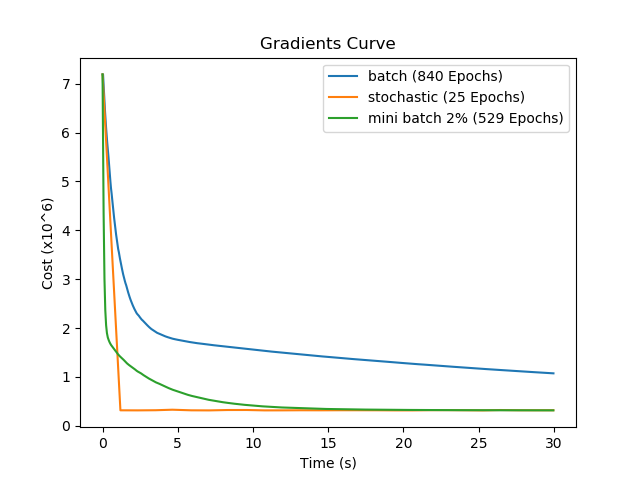
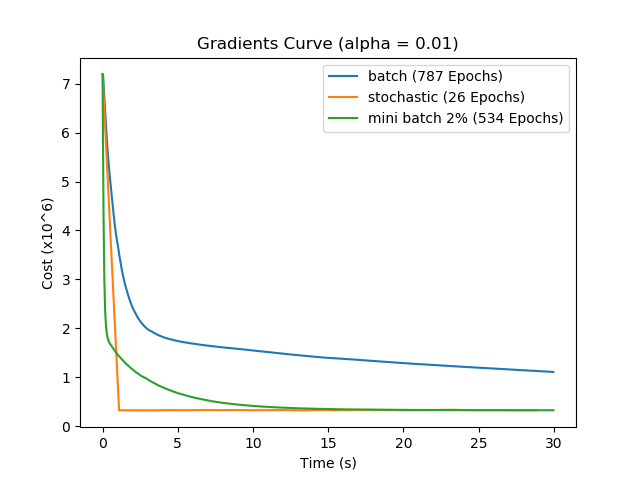
More plots

diff --git a/visualization.py b/visualization.py
@@ -159,7 +159,38 @@ def gradient_comparison(batch, stoch, minib):
     plt.show()
     return 
 
-def gradient_comparison():
+def gradient_comparison(alpha):
+    
+    X, Y, feat_list = model.prepare_dataset("Datasets/training.csv")
+    X = norm.normalize_data(X, choice=1, features=feat_list)
+    X, T, Y = desc.numpy_and_bias(X, Y)
+
+    desc.descent(X, T, Y, t_lim=30, e_lim=10000, rate=alpha)
+    batch = []
+    batch.append([desc.cost(X, i, Y)/10**6 for i in desc.epochs_info[0]])
+    batch.append(desc.epochs_info[1][:])
+
+    desc.descent(X, T, Y, t_lim=30, e_lim=10000, type='m', rate=alpha, mb_size=int(0.05*Y.shape[0]))
+    minib = []
+    minib.append([desc.cost(X, i, Y)/10**6 for i in desc.epochs_info[0]])
+    minib.append(desc.epochs_info[1][:])
+
+    desc.descent(X, T, Y, t_lim=30, e_lim=10000, rate=alpha, type='s')
+    stoch = []
+    stoch.append([desc.cost(X, i, Y)/10**6 for i in desc.epochs_info[0]])
+    stoch.append(desc.epochs_info[1][:])
+   
+    plt.plot(batch[1], batch[0], label='batch ('+str(len(batch[0])-1)+' Epochs)')
+    plt.plot(stoch[1], stoch[0], label='stochastic ('+str(len(stoch[0])-1)+' Epochs)')
+    plt.plot(minib[1], minib[0], label='mini batch 2% ('+str(len(minib[0])-1)+' Epochs)')
+    plt.legend()
+    plt.xlabel('Time (s)')
+    plt.ylabel('Cost (x10^6)')
+    plt.title('Gradients Curve (alpha = '+str(alpha)+')')
+    plt.show()
+    return 
+
+def best_alpha_gradient_comparison():
     
     X, Y, feat_list = model.prepare_dataset("Datasets/training.csv")
     X = norm.normalize_data(X, choice=1, features=feat_list)
@@ -186,7 +217,7 @@ def gradient_comparison():
     plt.legend()
     plt.xlabel('Time (s)')
     plt.ylabel('Cost (x10^6)')
-    plt.title('Gradients Curve (alpha = '+str(alpha)+')')
+    plt.title('Gradients Curve')
     plt.show()
     return 
 
@@ -218,4 +249,4 @@ def norm_check(feat_list):
 ##### CALLING AREA #####
 
 # alpha_comparison('s',"Stochastic Learning Rates", [0.1, 0.01, 0.001,0.0001])
-gradient_comparison()
+gradient_comparison(0.01)

diff --git a/main.py b/main.py
@@ -7,27 +7,6 @@ import gradient_descent as desc
 import visualization as graph
 
 # ### Getting Training Set ###
-<<<<<<< HEAD
-# # Returns the data without the header
-# X, Y, feat_list = model.prepare_dataset("Datasets/training.csv")
-# # Normalize the features pointed by the received model
-# X = norm.normalize_data(X, choice=1, features=feat_list)
-# # Cast, add bias and randomize initial Thetas
-# X, T, Y = desc.numpy_and_bias(X, Y)
-
-# # Validation set
-# # features to be normalized are the same
-# X_val, Y_val, _ = model.prepare_dataset("Datasets/validate.csv")
-# X_val = norm.normalize_data(X_val, choice=1, features=feat_list)
-# X_val, _, Y_val = desc.numpy_and_bias(X_val, Y_val)
-
-# T = desc.descent(X, T, Y, t_lim=180, e_lim=10000, type="s")
-# print("TRAIN SCORE=>", desc.score(X, T, Y))
-# print("TRAIN SCORE=>", desc.cost(X, T, Y))
-# print("VALID SCORE=>", desc.score(X_val, T, Y_val))
-# print("VALID SCORE=>", desc.cost(X_val, T, Y_val))
-# exit()
-=======
 # Returns the data split between features and target.
 X, Y, feat_list = model.prepare_dataset("Datasets/training.csv")
 # Normalize the features pointed by the received model
@@ -44,7 +23,6 @@ X_val, _, Y_val = desc.numpy_and_bias(X_val, Y_val)
 #T = desc.descent(X, T, Y, t_lim=180, e_lim=10000, type="s")
 #print("TRAIN SCORE=>", desc.score(X, T, Y))
 #print("VALID SCORE=>", desc.score(X_val, T, Y_val))
->>>>>>> 298826db2c005778aefbf4b6521d13c11a278650
 # ### FITTING EVALUATION ###
 #T = desc.descent(X, T, Y, t_lim=30, e_lim=1000)
 #print(desc.epochs_count)
